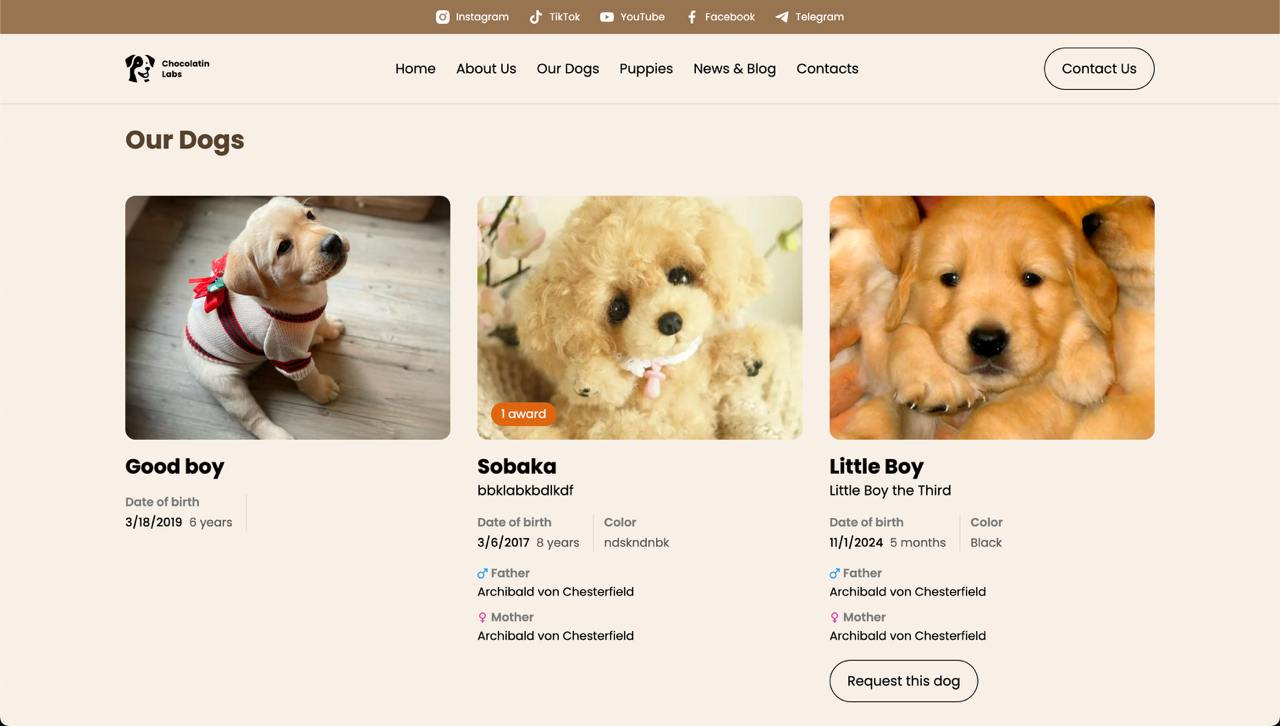
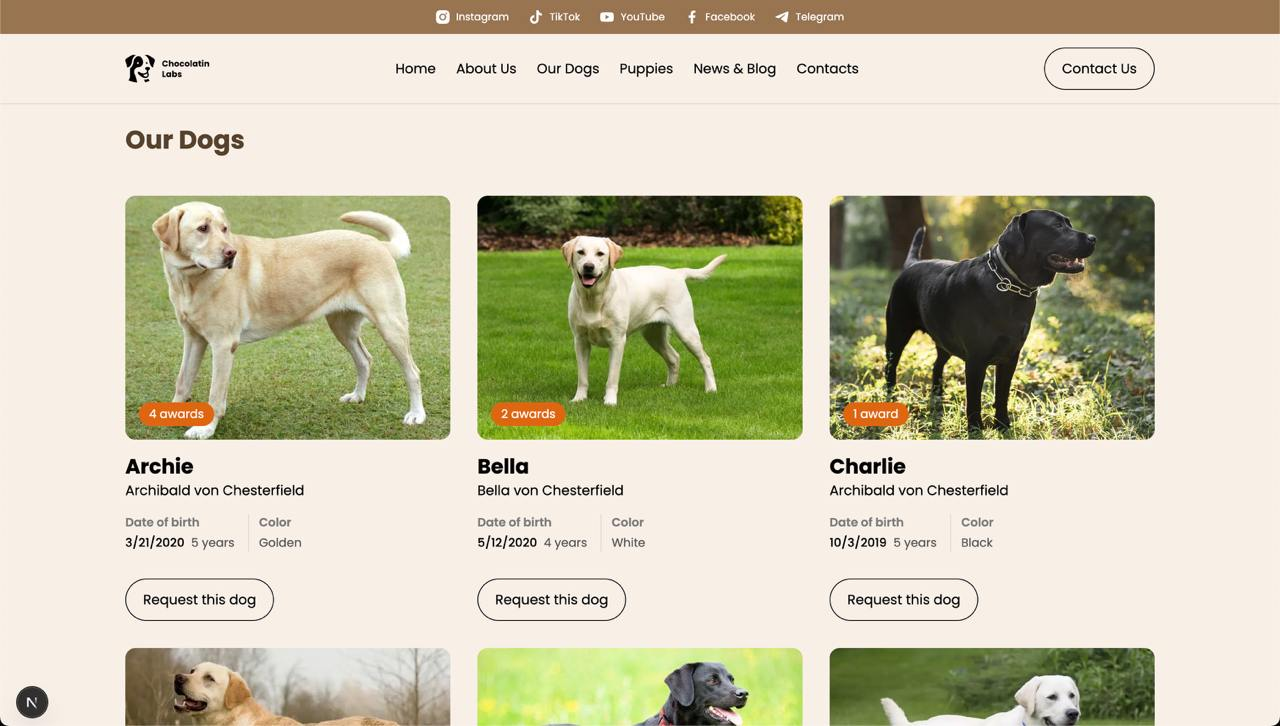
feat: update project assets and enhance project details
- Added new images for Chocolatin Labs and Gimecs projects.
- Replaced outdated icons with new SVG files for Next.js, Payload, MongoDB, and others.
- Updated project descriptions to include challenges and solutions for better clarity.
- Improved ProjectModal component to display new project details effectively.

diff --git a/src/constants.ts b/src/constants.ts
@@ -99,29 +99,36 @@ export const projectsData: ProjectDetails[] = [
     category: "E-commerce",
     description:
       "A website for a labrador kennel in Europe with catalogue of dogs to request through the form and connected CMS for managing all the content on the website.",
+    challenge:
+      "Client needed a website to showcase their dogs with ability to request a dog through the form and a blog page to share news and updates.",
+    solution:
+      "We built a custom CMS with a simple interface for managing the content on the website. We also implemented email notification service to notify the client when a new request is made.",
     features: [
       "Custom CMS",
       "Email notifications",
       "Translations",
       "Mobile friendly",
+      "SEO",
     ],
     images: [
       "/cases/chocolatin-labs/photo1.jpeg",
       "/cases/chocolatin-labs/photo2.jpeg",
       "/cases/chocolatin-labs/photo3.jpeg",
+      "/cases/chocolatin-labs/photo4.jpeg",
+      "/cases/chocolatin-labs/photo5.jpeg",
     ],
     technologies: [
-      { name: "Next.js", icon: "/icons/nextjs.png" },
+      { name: "Next.js", icon: "/icons/next-js.svg" },
       { name: "TypeScript", icon: "/icons/typescript.svg" },
-      { name: "Payload", icon: "/icons/payload.png" },
+      { name: "Payload CMS", icon: "/icons/payload.svg" },
+      { name: "MongoDB", icon: "/icons/mongodb.svg" },
       { name: "Tailwind CSS", icon: "/icons/tailwind.svg" },
     ],
     client: {
       name: "Chocolatin Labs",
       description: "Premium Labrador Kennel",
-      country: "Germany",
+      country: "Italy",
     },
-    link: "https://chocolatin-labs.vercel.app/",
   },
   {
     id: 2,
@@ -129,24 +136,34 @@ export const projectsData: ProjectDetails[] = [
     category: "Corporate",
     description:
       "A website for a German IT company which specializes on indastrial IoT solutions.",
-    features: ["Custom CMS", "Translations", "Mobile friendly", "SEO"],
+    challenge:
+      "Client needed a website to showcase present their company, their services and case studies.",
+    solution:
+      "We built a custom CMS with a simple interface for managing almost all the content on the website. We also added a contact form with sending emails to the client.",
+    features: [
+      "Custom CMS",
+      "Translations",
+      "Contact form",
+      "Mobile friendly",
+      "SEO",
+    ],
     images: [
       "/cases/gimecs/photo1.jpeg",
       "/cases/gimecs/photo2.jpeg",
       "/cases/gimecs/photo3.jpeg",
     ],
     technologies: [
-      { name: "React", icon: "/icons/react.svg" },
-      { name: "Next.js", icon: "/icons/nextjs.png" },
+      { name: "Next.js", icon: "/icons/next-js.svg" },
       { name: "TypeScript", icon: "/icons/typescript.svg" },
+      { name: "Payload CMS", icon: "/icons/payload.svg" },
+      { name: "MongoDB", icon: "/icons/mongodb.svg" },
       { name: "Tailwind CSS", icon: "/icons/tailwind.svg" },
     ],
     client: {
       name: "Gimecs",
-      description: "Industrial IoT Solutions Provider",
+      description: "Industrial IoT Solutions",
       country: "Germany",
     },
-    link: "https://gimecs.vercel.app/",
   },
   {
     id: 3,
@@ -154,26 +171,33 @@ export const projectsData: ProjectDetails[] = [
     category: "Web3",
     description:
       "A web application for investing crypto through smart contracts.",
+    challenge:
+      "Client needed a web application for internal usage for investing crypto through smart contracts.",
+    solution:
+      "We built a web application with a login by phone number and wallet authentication, dashboard for revieving and managing investments and other pages for signing new contracts and managing your profile. Also we add small admin panel for reviewing contracts of all users.",
     features: [
       "Web3 Staking",
       "Wallet Authentication",
       "Smart Contract Interaction",
+      "Admin Panel",
+      "Translations",
     ],
     images: [
       "/cases/web3-invest/photo1.jpeg",
       "/cases/web3-invest/photo2.jpeg",
-      "/cases/web3-invest/photo3.jpeg",
+      "/cases/web3-invest/photo3.jpg",
     ],
     technologies: [
-      { name: "React", icon: "/icons/react.svg" },
+      { name: "Next.js", icon: "/icons/next-js.svg" },
       { name: "TypeScript", icon: "/icons/typescript.svg" },
-      { name: "Ethers.js", icon: "/icons/ethers.svg" },
-      { name: "Tailwind CSS", icon: "/icons/tailwind.svg" },
+      { name: "Wagmi", icon: "/icons/wagmi.svg" },
+      { name: "WalletConnect", icon: "/icons/wallet-connect.svg" },
+      { name: "Material UI", icon: "/icons/mui.svg" },
     ],
     client: {
-      name: "Confidential",
-      description: "Blockchain Investment Platform",
-      country: "Switzerland",
+      name: "NDA",
+      description: "International FinTech company",
+      country: "Ukraine",
     },
   },
 ];

diff --git a/src/components/ui/ProjectModal.tsx b/src/components/ui/ProjectModal.tsx
@@ -37,6 +37,13 @@ const ProjectModal: FC<ProjectModalProps> = ({ project, onClose }) => {
     };
   }, [onClose]);
 
+  useEffect(() => {
+    document.body.style.overflow = "hidden";
+    return () => {
+      document.body.style.overflow = "";
+    };
+  }, []);
+
   if (!project) return null;
 
   const nextImage = () => {
@@ -115,11 +122,19 @@ const ProjectModal: FC<ProjectModalProps> = ({ project, onClose }) => {
             {/* Project info */}
             <div className="grid grid-cols-1 md:grid-cols-2 gap-8">
               <div>
-                <div className="mb-8">
+                <div className="mb-6">
                   <h3 className="text-xl font-medium text-white mb-2">
                     Overview
                   </h3>
                   <p className="text-slate-400">{project.description}</p>
+                </div>
+                <div className="mb-6">
+                  <h3 className="text-white mb-1">- Business Challenge</h3>
+                  <p className="text-slate-400">{project.challenge}</p>
+                </div>
+                <div className="mb-8">
+                  <h3 className="text-white mb-1">- Solution</h3>
+                  <p className="text-slate-400">{project.solution}</p>
                 </div>
 
                 {project.client && (
@@ -164,7 +179,7 @@ const ProjectModal: FC<ProjectModalProps> = ({ project, onClose }) => {
                     {project.technologies.map((tech) => (
                       <div
                         key={tech.name}
-                        className="relative w-10 h-10 flex items-center justify-center bg-white/5 p-2 rounded-lg hover:bg-white/10 transition-all cursor-pointer"
+                        className="relative w-10 h-10 flex items-center justify-center bg-white/5 p-2 rounded-lg hover:bg-white/10 transition-all"
                         onMouseEnter={(e) => {
                           const rect = e.currentTarget.getBoundingClientRect();
                           setTooltipTech({

diff --git a/src/types.ts b/src/types.ts
@@ -14,6 +14,8 @@ export interface ProjectDetails {
   title: string;
   category: string;
   description: string;
+  challenge: string;
+  solution: string;
   features: string[];
   images: string[];
   technologies: Technology[];
